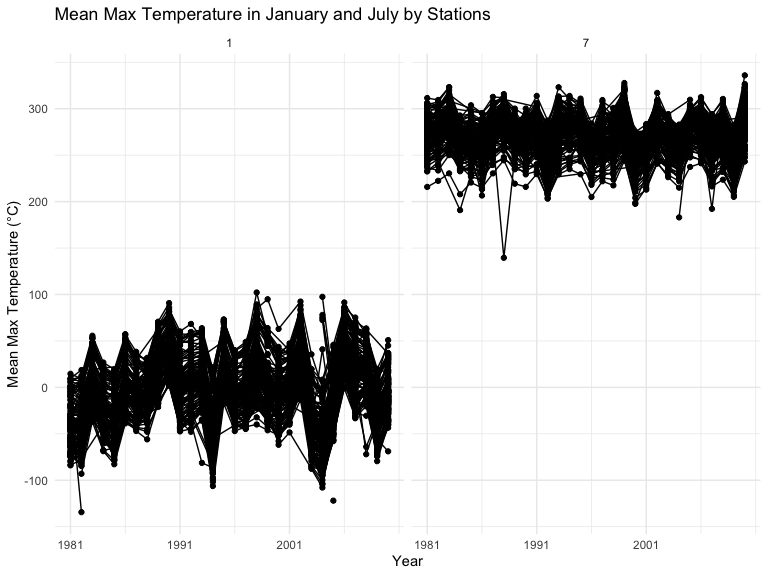
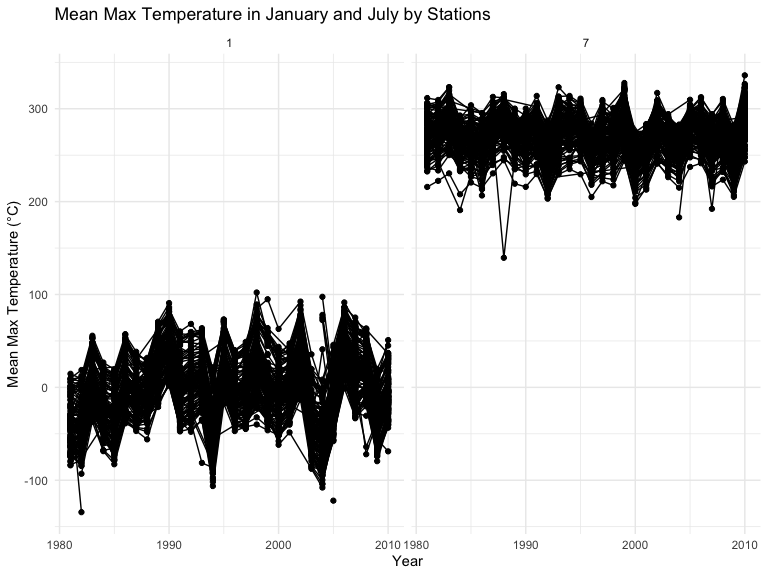
Problem 2 section 2 and revision on Problem 1 plot complete

diff --git a/p8105homework3.md b/p8105homework3.md
@@ -62,7 +62,7 @@ weather_jan_jul_ggplot = weather_jan_jul |>
 ggplot(aes(x = year, y = mean_tmax, group = id)) +
   geom_point() + geom_path() +
   facet_grid(~month) +
-  scale_x_continuous(breaks = seq(min(weather_jan_jul$year), max(weather_jan_jul$year), by = 10)) +
+  scale_x_continuous(breaks = seq(1980, 2010, by = 10)) +
   labs(
     title = "Mean Max Temperature in January and July by Stations",
        x = "Year", 
@@ -185,7 +185,8 @@ Merged_nhanes_dat = nhanes_covar_df |>
 ```
 
 In this section, the datasets were cleaned and organized as per the
-requirements, and a merged dataset was created.
+requirements, and a merged dataset was created. In this dataset, there
+are 225 observations and 1446 variables.
 
 ## Section 2: Gender distribution and age trends across education categories
 
@@ -209,10 +210,18 @@ knitr::kable(Sex_in_education_cate, caption = "Number of Men and Women in Each E
 
 Number of Men and Women in Each Education Category
 
+According to the table, the number of males and females education levels
+of “Less than high school” and “More than high school” are approximately
+similar, inidacting a balanced distribution between genders in these
+catgories. For education level of “High school equivalent”, males
+outnumber females by eleven, showing that men are more likely to obtain
+a high school equivalent degree compared to famles in this sample
+population.
+
 ``` r
 Age_distri_in_Edc_plot = Merged_nhanes_dat |> 
   ggplot(aes(x = age, fill = sex)) +
-  geom_density(alpha = 0.5) +
+  geom_density(alpha = .4, adjust = .5) +
   facet_grid(~Education) +
   labs(
     title = "Age Distribution by Education and Gender",
@@ -220,23 +229,20 @@ Age_distri_in_Edc_plot = Merged_nhanes_dat |>
     y = "Density"
   ) 
 
-Age_distri_in_Edc_plot2 = Merged_nhanes_dat |> 
-  ggplot(aes(x = age, fill = sex)) +
- geom_histogram(position = "dodge", binwidth = 2) +
-  facet_grid(~Education) +
-  labs(
-    title = "Age Distribution by Education and Gender",
-    x = "Age",
-    y = "Density"
-  )
-
 Age_distri_in_Edc_plot
 ```
 
-<img src="p8105homework3_files/figure-gfm/unnamed-chunk-5-1.png" width="90%" />
+<img src="p8105homework3_files/figure-gfm/unnamed-chunk-6-1.png" width="90%" />
 
-``` r
-Age_distri_in_Edc_plot2
-```
-
-<img src="p8105homework3_files/figure-gfm/unnamed-chunk-5-2.png" width="90%" />
+According to the density plot, three education levels are showing
+different age distributions between genders. For the “Less than high
+school” education category, males have a peak between age 40 and 50,
+while females show a more even distribution across age. Both genders
+display a left-skewed distribution, with higher densities in older age
+groups. For “High school equivalent” category, males display a
+relatively uneven distribution of age with various peaks across ages,
+while females show a more left-skewed distribution with a peak between
+age 70 and 80. Lastly, for the “More than high school” category, both
+genders demonstrate a right-skewed distribution. Females have a
+prominent peak at age of 30, and males also show less pronounced peak
+around that age.
